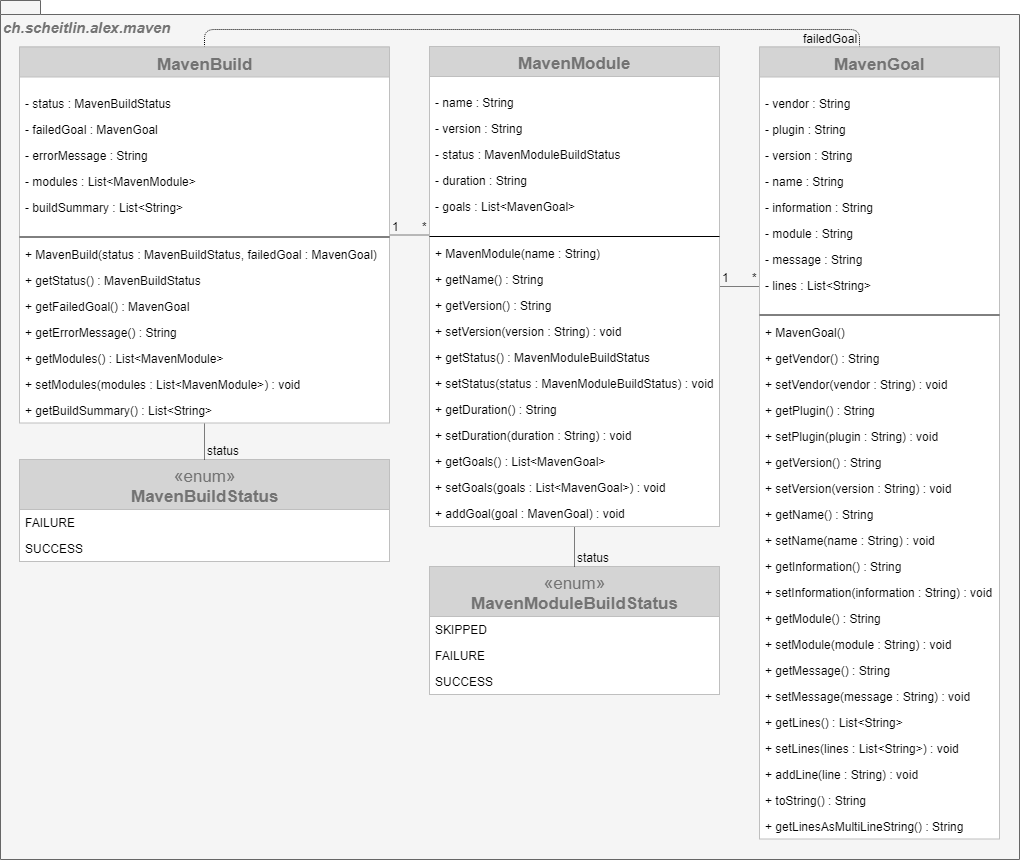
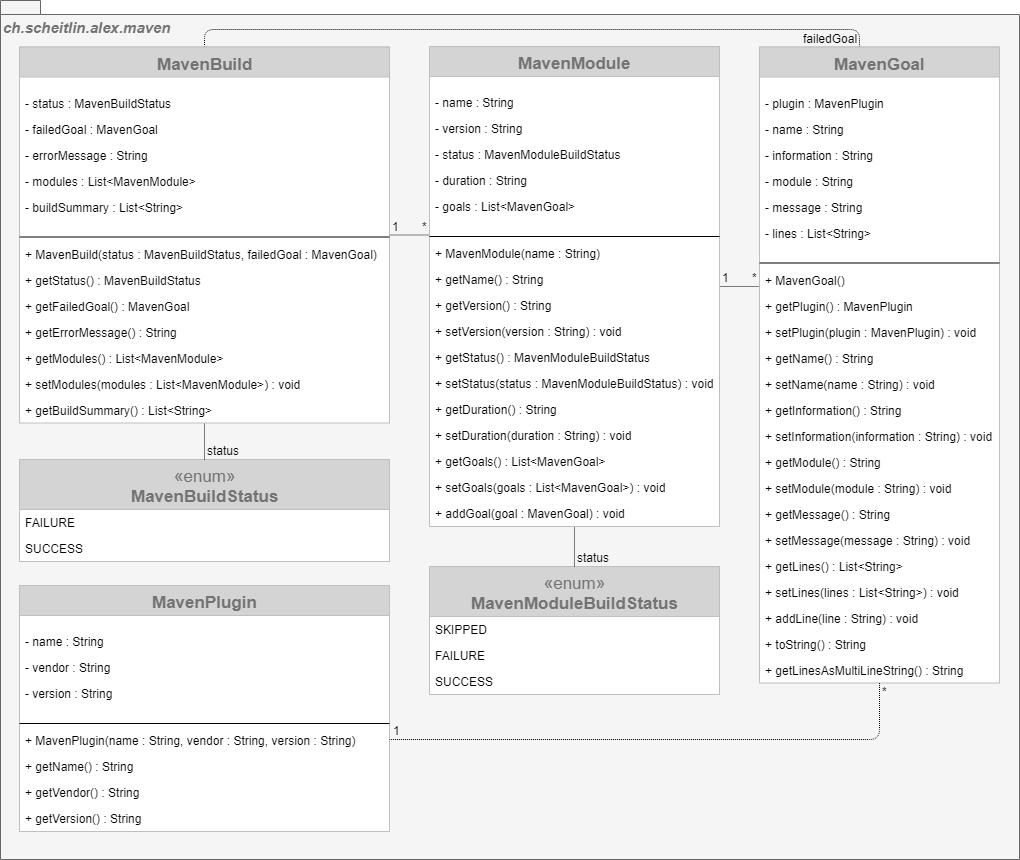
Extract maven plugin from maven goal to own class

Changed region(s): [[0.7598, 0.0907, 0.9725, 0.9674], [0.0, 0.6651, 0.3951, 0.8163], [0.0304, 0.8465, 0.3343, 0.9674]]

diff --git a/maven-model/src/main/java/ch/scheitlin/alex/maven/MavenGoal.java b/maven-model/src/main/java/ch/scheitlin/alex/maven/MavenGoal.java
@@ -8,19 +8,9 @@ import java.util.List;
  */
 public class MavenGoal {
     /**
-     * The name of the vendor of the plugin containing the maven goal.
+     * The plugin (name, vendor, version) of the maven goal.
      */
-    private String vendor;
-
-    /**
-     * The name of the plugin containing the maven goal.
-     */
-    private String plugin;
-
-    /**
-     * The version of the plugin containing the maven goal.
-     */
-    private String version;
+    private MavenPlugin plugin;
 
     /**
      * The name of the maven goal.
@@ -55,57 +45,21 @@ public class MavenGoal {
     }
 
     /**
-     * Gets the name of the vendor of the plugin containing the maven goal.
+     * Gets the plugin (name, vendor, version) of the maven goal.
      *
-     * @return the name of the vendor of the plugin containing the maven goal
+     * @return the plugin (name, vendor, version) of the maven goal
      */
-    public String getVendor() {
-        return this.vendor;
-    }
-
-    /**
-     * Sets the name of the vendor of the plugin containing the maven goal.
-     *
-     * @param vendor the name of the vendor of the plugin containing the maven goal
-     */
-    public void setVendor(String vendor) {
-        this.vendor = vendor;
-    }
-
-    /**
-     * Gets the name of the plugin containing the maven goal.
-     *
-     * @return the name of the plugin containing the maven goal
-     */
-    public String getPlugin() {
+    public MavenPlugin getPlugin() {
         return this.plugin;
     }
 
     /**
-     * Sets the name of the plugin containing the maven goal.
+     * Sets the plugin (name, vendor, version) of the maven goal.
      *
-     * @param plugin the name of the plugin containing the maven goal
+     * @param plugin the plugin (name, vendor, version) of the maven goal
      */
-    public void setPlugin(String plugin) {
+    public void setPlugin(MavenPlugin plugin) {
         this.plugin = plugin;
-    }
-
-    /**
-     * Gets the version of the plugin containing the maven goal.
-     *
-     * @return the version of the plugin containing the maven goal
-     */
-    public String getVersion() {
-        return this.version;
-    }
-
-    /**
-     * Sets the version of the plugin containing the maven goal.
-     *
-     * @param version the version of the plugin containing the maven goal
-     */
-    public void setVersion(String version) {
-        this.version = version;
     }
 
     /**
@@ -213,7 +167,7 @@ public class MavenGoal {
      * @return the string representation of the maven goal
      */
     public String toString() {
-        return this.plugin + ":" + this.version + ":" + this.name + " (" + this.information + ") @ " + this.module;
+        return this.plugin.getName() + ":" + this.plugin.getVersion() + ":" + this.name + " (" + this.information + ") @ " + this.module;
     }
 
     /**

diff --git a/maven-build-log-parser/src/main/java/ch/scheitlin/alex/maven/MavenBuildLogParser.java b/maven-build-log-parser/src/main/java/ch/scheitlin/alex/maven/MavenBuildLogParser.java
@@ -158,7 +158,7 @@ public class MavenBuildLogParser {
                 for (MavenGoal goal : module.getGoals()) {
                     MavenGoal failedGoal = build.getFailedGoal();
                     if (goal.getPlugin().equals(failedGoal.getPlugin()) &&
-                            goal.getVersion().equals(failedGoal.getVersion()) &&
+                            goal.getPlugin().getVersion().equals(failedGoal.getPlugin().getVersion()) &&
                             goal.getName().equals(failedGoal.getName())) {
                         build.getFailedGoal().setLines(goal.getLines());
                     }
@@ -342,8 +342,7 @@ public class MavenBuildLogParser {
             if (goalMatcher.matches(lines[i])) {
                 String[] components = goalMatcher.extractComponentsSilently(lines[i]);
                 currentGoal = new MavenGoal();
-                currentGoal.setPlugin(components[0]);
-                currentGoal.setVersion(components[1]);
+                currentGoal.setPlugin(new MavenPlugin(components[0], null, components[1]));
                 currentGoal.setName(components[2]);
                 currentGoal.setInformation(components[3]);
                 currentGoal.setModule(components[4]);
@@ -496,9 +495,7 @@ public class MavenBuildLogParser {
                 if (failedGoalMatcher.matches(lines[i])) {
                     String[] components = failedGoalMatcher.extractComponentsSilently(lines[i]);
                     failedGoal = new MavenGoal();
-                    failedGoal.setVersion(components[0]);
-                    failedGoal.setPlugin(components[1]);
-                    failedGoal.setVersion(components[2]);
+                    failedGoal.setPlugin(new MavenPlugin(components[1], components[0], components[2]));
                     failedGoal.setName(components[3]);
                     failedGoal.setInformation(components[4]);
                     failedGoal.setModule(components[5]);

diff --git a/maven-model/src/test/java/ch/scheitlin/alex/maven/MavenGoalTest.java b/maven-model/src/test/java/ch/scheitlin/alex/maven/MavenGoalTest.java
@@ -9,51 +9,19 @@ import java.util.List;
 public class MavenGoalTest {
 
     @Test
-    public void setAndGetVendor() {
-        // assign variables with test data
-        String expectedVendor = "Vendor";
-
-        // allocate test objects
-        MavenGoal goal = new MavenGoal();
-
-        // execute method to be tested
-        goal.setVendor(expectedVendor);
-        String actualVendor = goal.getVendor();
-
-        // assert result
-        Assert.assertEquals(expectedVendor, actualVendor);
-    }
-
-    @Test
     public void setAndGetPlugin() {
         // assign variables with test data
-        String expectedPlugin = "Plugin";
+        MavenPlugin expectedPlugin = new MavenPlugin(null, null, null);
 
         // allocate test objects
         MavenGoal goal = new MavenGoal();
 
         // execute method to be tested
         goal.setPlugin(expectedPlugin);
-        String actualPlugin = goal.getPlugin();
+        MavenPlugin actualPlugin = goal.getPlugin();
 
         // assert result
         Assert.assertEquals(expectedPlugin, actualPlugin);
-    }
-
-    @Test
-    public void setAndGetVersion() {
-        // assign variables with test data
-        String expectedVersion = "Version";
-
-        // allocate test objects
-        MavenGoal goal = new MavenGoal();
-
-        // execute method to be tested
-        goal.setVersion(expectedVersion);
-        String actualVersion = goal.getVersion();
-
-        // assert result
-        Assert.assertEquals(expectedVersion, actualVersion);
     }
 
     @Test
@@ -143,8 +111,7 @@ public class MavenGoalTest {
 
         // allocate test objects
         MavenGoal goal = new MavenGoal();
-        goal.setPlugin("plugin");
-        goal.setVersion("version");
+        goal.setPlugin(new MavenPlugin("plugin", "vendor", "version"));
         goal.setName("name");
         goal.setInformation("information");
         goal.setModule("module");

diff --git a/maven-model/src/test/java/ch/scheitlin/alex/maven/MavenPluginTest.java b/maven-model/src/test/java/ch/scheitlin/alex/maven/MavenPluginTest.java
@@ -1,0 +1,52 @@
+package ch.scheitlin.alex.maven;
+
+import org.junit.Assert;
+import org.junit.Test;
+
+public class MavenPluginTest {
+
+    @Test
+    public void getName() {
+        // assign variables with test data
+        String expectedName = "Name";
+
+        // allocate test objects
+        MavenPlugin plugin = new MavenPlugin(expectedName, null, null);
+
+        // execute method to be tested
+        String actualName = plugin.getName();
+
+        // assert result
+        Assert.assertEquals(expectedName, actualName);
+    }
+
+    @Test
+    public void getVendor() {
+        // assign variables with test data
+        String expectedVendor = "Vendor";
+
+        // allocate test objects
+        MavenPlugin plugin = new MavenPlugin(null, expectedVendor, null);
+
+        // execute method to be tested
+        String actualVendor = plugin.getVendor();
+
+        // assert result
+        Assert.assertEquals(expectedVendor, actualVendor);
+    }
+
+    @Test
+    public void getVersion() {
+        // assign variables with test data
+        String expectedVersion = "Version";
+
+        // allocate test objects
+        MavenPlugin plugin = new MavenPlugin(null, null, expectedVersion);
+
+        // execute method to be tested
+        String actualVersion = plugin.getVersion();
+
+        // assert result
+        Assert.assertEquals(expectedVersion, actualVersion);
+    }
+}

diff --git a/maven-model/src/main/java/ch/scheitlin/alex/maven/MavenPlugin.java b/maven-model/src/main/java/ch/scheitlin/alex/maven/MavenPlugin.java
@@ -1,0 +1,61 @@
+package ch.scheitlin.alex.maven;
+
+/**
+ * Represents a maven plugin.
+ */
+public class MavenPlugin {
+    /**
+     * The name of the maven plugin.
+     */
+    private String name;
+
+    /**
+     * The vendor of the maven plugin.
+     */
+    private String vendor;
+
+    /**
+     * The version of the maven plugin.
+     */
+    private String version;
+
+    /**
+     * Creates a new instance of a maven plugin.
+     *
+     * @param name    the name of the maven plugin
+     * @param vendor  the vendor of the maven plugin
+     * @param version the version of the maven plugin
+     */
+    public MavenPlugin(String name, String vendor, String version) {
+        this.name = name;
+        this.vendor = vendor;
+        this.version = version;
+    }
+
+    /**
+     * Gets the name of the maven plugin.
+     *
+     * @return the name of the maven plugin
+     */
+    public String getName() {
+        return this.name;
+    }
+
+    /**
+     * Gets the vendor of the maven plugin.
+     *
+     * @return the vendor of the maven plugin
+     */
+    public String getVendor() {
+        return this.vendor;
+    }
+
+    /**
+     * Gets the version of the maven plugin.
+     *
+     * @return the version of the maven plugin
+     */
+    public String getVersion() {
+        return this.version;
+    }
+}

diff --git a/build-failure-resolution-assistant/src/main/java/ch/scheitlin/alex/build/Assistant.java b/build-failure-resolution-assistant/src/main/java/ch/scheitlin/alex/build/Assistant.java
@@ -135,7 +135,7 @@ public class Assistant extends AssistantWithStages {
             }
 
             this.errors = MavenGoalLogParser.parseGoalLog(
-                    mavenBuild.getFailedGoal().getPlugin(),
+                    mavenBuild.getFailedGoal().getPlugin().getName(),
                     mavenBuild.getFailedGoal().getName(),
                     failedGoalLog
             );
